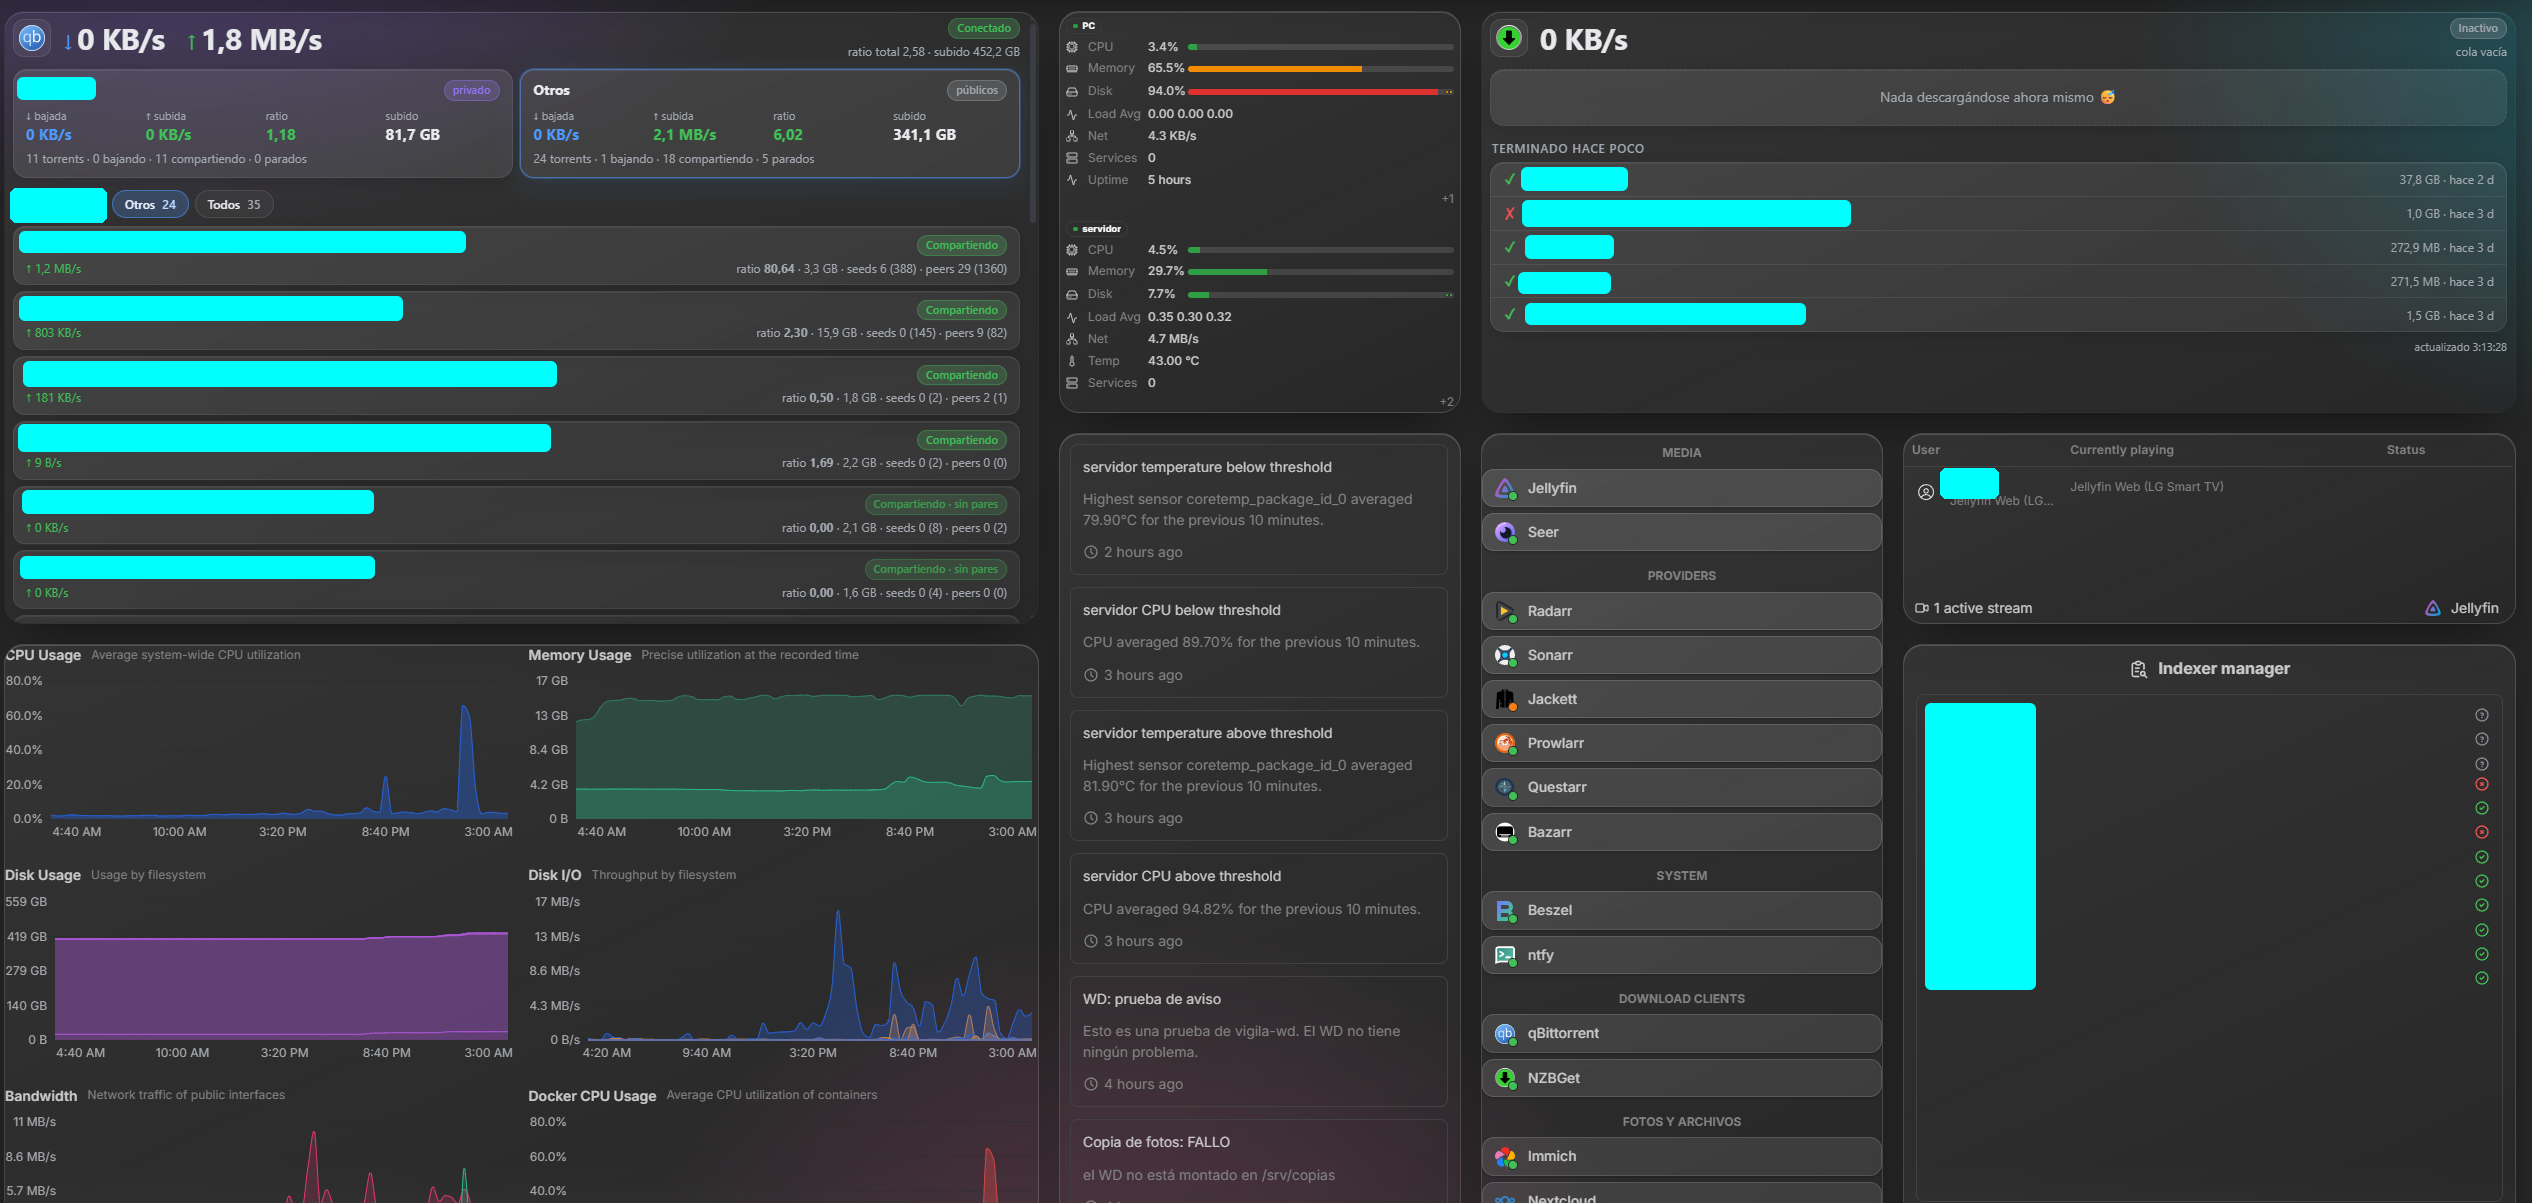
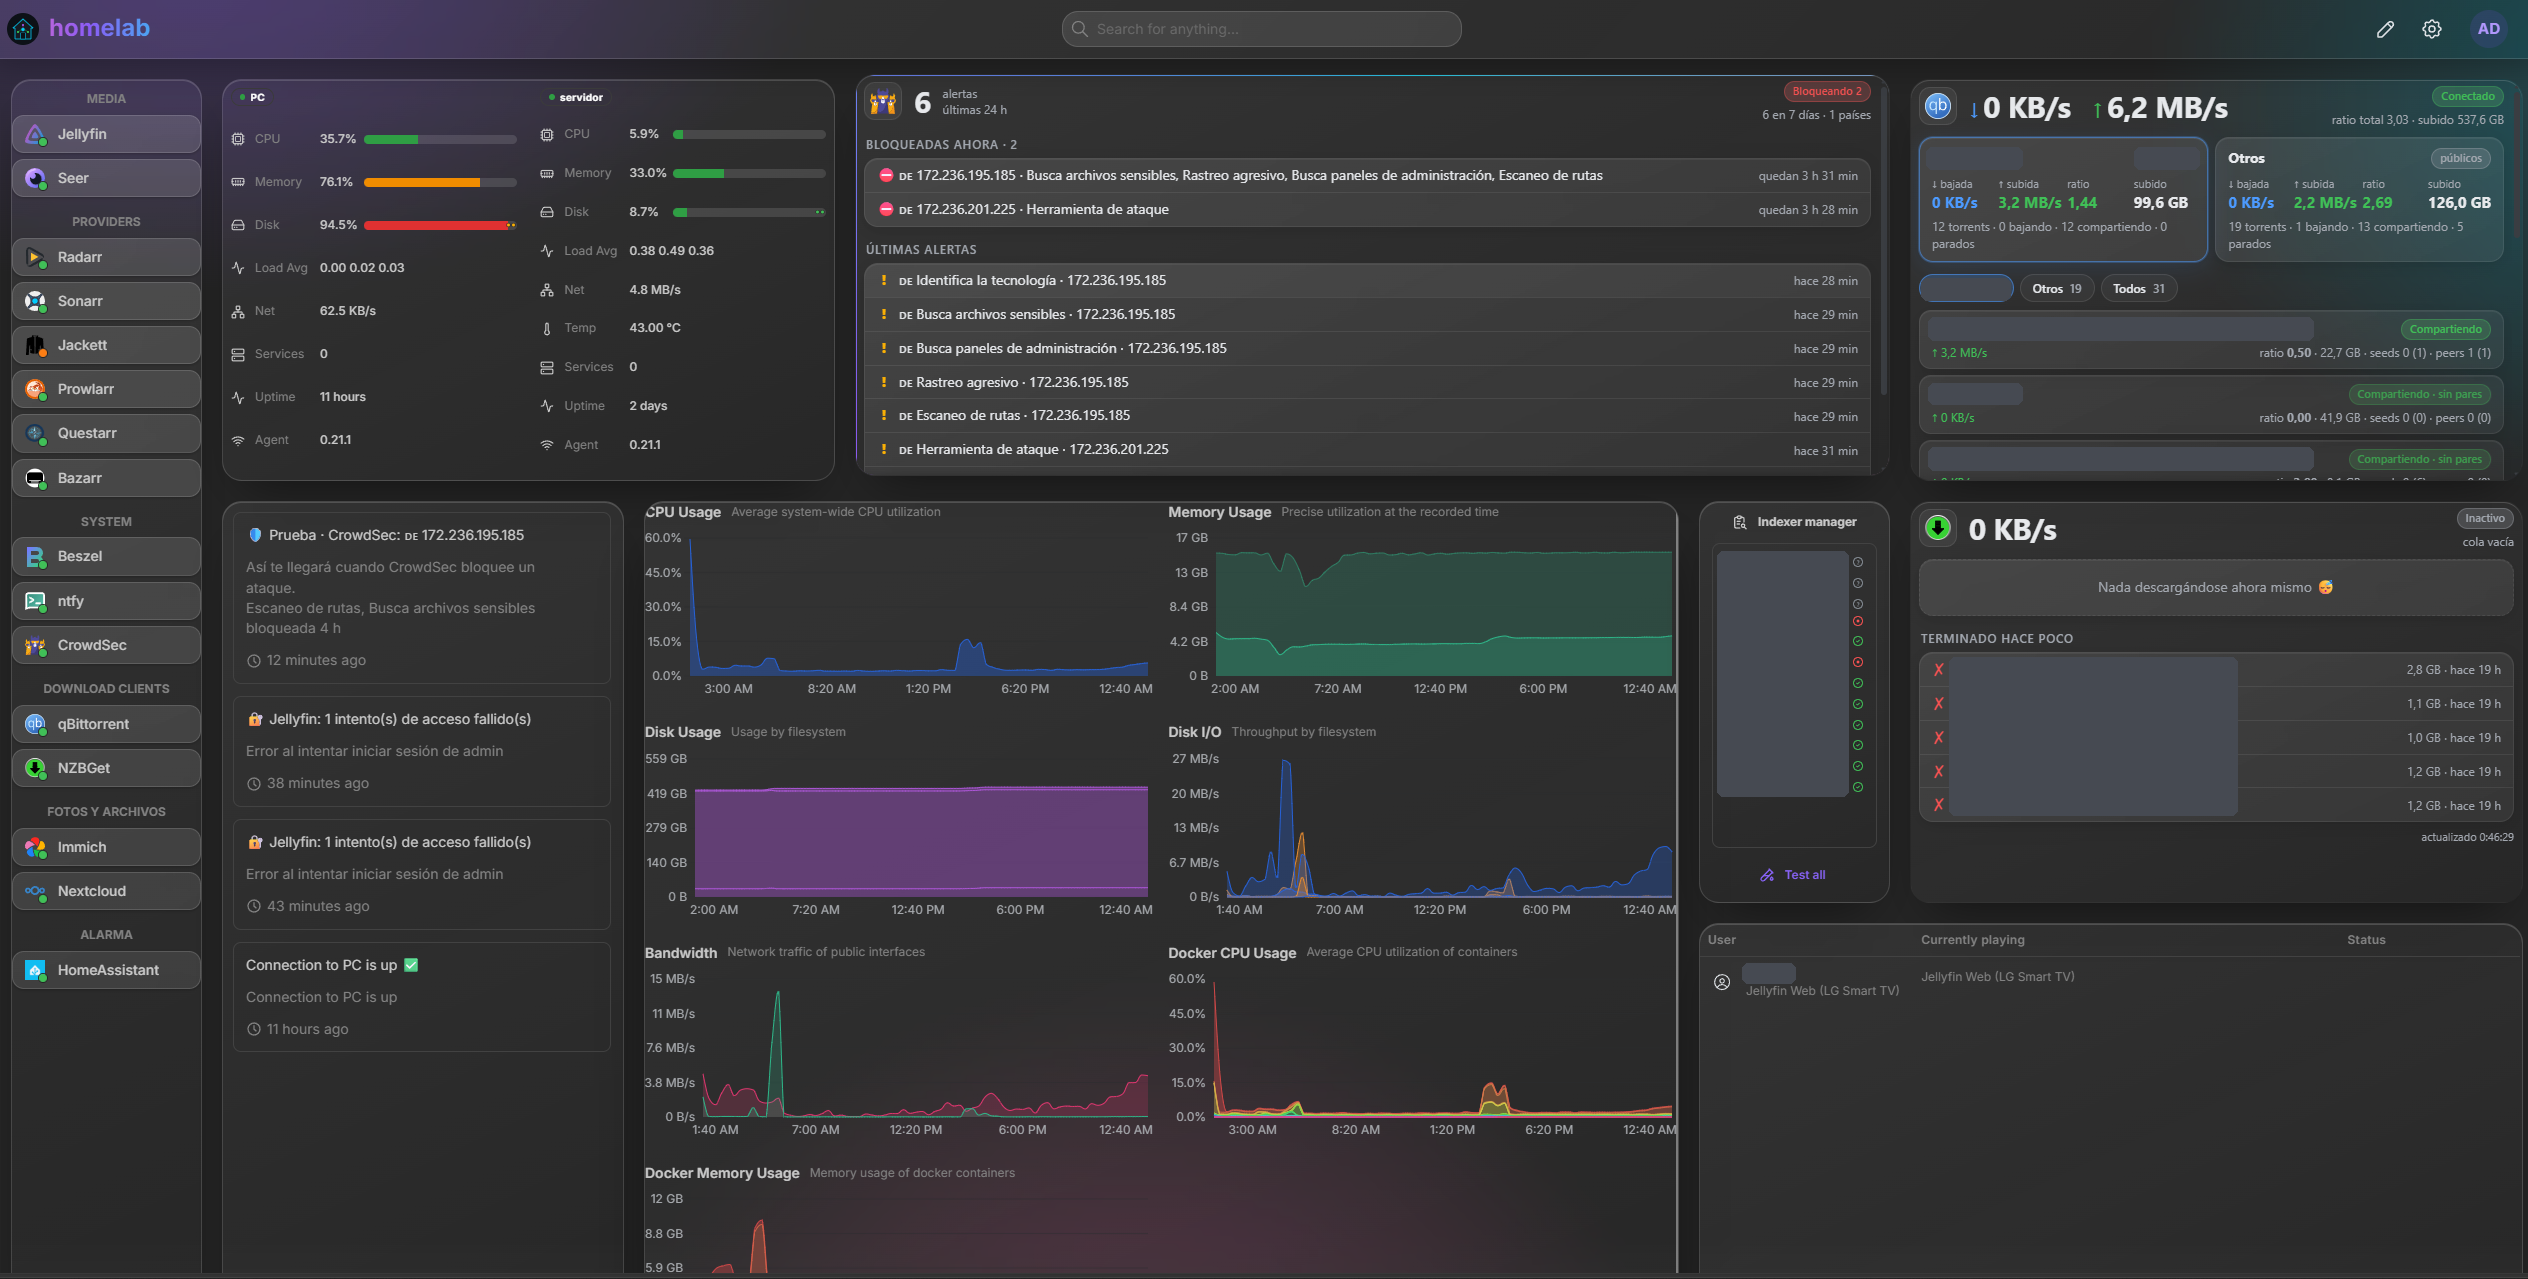
Homarr reorganizado con panel de CrowdSec y captura nueva
Claude-Session: https://claude.ai/code/session_0146gPPQ9hRwZHq2yfirPVN8

diff --git a/docs/05-panel-homarr.md b/docs/05-panel-homarr.md
@@ -4,7 +4,9 @@
 
 Desde el **26 de octubre de 2026**, **Homarr** (v2) es la página de inicio del homelab: un único tablero desde el que veo el estado de todo y salto a cualquier servicio. Sustituye a **Homepage**, que usé hasta entonces y que quedó **retirado el 31 de octubre** (ver [Cómo era antes](#cómo-era-antes-homepage)).
 
-![Tablero de Homarr en el PC](../images/homarr-escritorio.png)
+![Tablero de Homarr en el PC, 3 de noviembre](../images/homarr-escritorio.png)
+
+*El tablero el 3 de noviembre. Las alertas de seguridad que se ven las provoqué yo, lanzando escáneres web contra mi propio dominio para probar [CrowdSec](03-acceso-remoto-y-seguridad.md#consola-web-y-prueba-con-un-escáner-3-nov). Los nombres de proveedores, indexadores y descargas están tapados.*
 
 ## Por qué el cambio
 
@@ -86,7 +88,23 @@ Las **integraciones** apuntan a los servicios por su **nombre de contenedor** (`
 | Diseño base | Breakpoint **1200 px**, **14 columnas**, sin barras laterales |
 | Tema | "Aurora / glass" en *Custom CSS* (~8 KB): fondo con degradados y tarjetas translúcidas |
 
-Orden aproximado, de arriba abajo, para que lo que más miro quede arriba:
+#### Cómo está ahora (3-nov)
+
+- **Columna izquierda:** los accesos a todas las apps, por categorías (multimedia, proveedores, sistema, clientes de descarga, fotos y archivos, alarma), cada una con su punto de estado. CrowdSec entra en "sistema".
+- **Arriba**, lo que quiero ver de un vistazo: las dos máquinas (PC y servidor) con Beszel, el **panel de CrowdSec** y el panel de BitTorrent.
+- **Abajo:** las notificaciones de ntfy, las gráficas del servidor (CPU, memoria, disco, red y uso por contenedor), el estado de los indexadores, el panel de Usenet y quién está viendo algo en Jellyfin.
+
+**El panel de CrowdSec**, nuevo, enseña en castellano:
+
+- Cuántas alertas ha habido en las últimas 24 horas y en los últimos 7 días, y de cuántos países.
+- **Las IPs bloqueadas ahora mismo**, con el motivo y el tiempo de bloqueo que les queda.
+- **Las últimas alertas**, traducidas a algo legible: "Busca archivos sensibles", "Busca paneles de administración", "Rastreo agresivo", "Escaneo de rutas", "Herramienta de ataque", "Identifica la tecnología"…
+
+En la captura, todo eso lo provoqué yo: lancé **escáneres web** contra mi propio dominio y CrowdSec bloqueó las dos IPs desde las que escaneaban (2 bloqueos activos, 6 alertas). Las mismas pruebas se ven en las notificaciones de la izquierda: el aviso de prueba de CrowdSec, tal como llegará al móvil cuando bloquee un ataque de verdad, y dos **intentos fallidos de iniciar sesión como `admin` en Jellyfin**, que también saltaron con el escaneo.
+
+#### Cómo era antes (26-oct – 2-nov)
+
+Una sola columna de arriba abajo, sin barra de apps a la izquierda:
 
 1. **Paneles de descargas** en directo, a lo ancho (iFrames de los [paneles propios](#paneles-propios-dentro-de-homarr)).
 2. **Estado de las máquinas**: gráficas de CPU y RAM y tarjetas por sistema (Beszel).
@@ -103,6 +121,7 @@ Orden aproximado, de arriba abajo, para que lo que más miro quede arriba:
 | Indexer manager status | Integración Prowlarr + Jackett | Qué indexadores responden y cuáles fallan |
 | Media server streams | Integración Jellyfin | Reproducciones en curso |
 | Categorized App List with Status Dots | Widget de la comunidad | Botones de todas las apps, por categorías, con un punto de estado (verde, naranja o rojo) |
+| Panel de CrowdSec (3-nov) | CrowdSec | Alertas de 24 h y 7 días, IPs bloqueadas ahora y últimas alertas en castellano |
 
 ### Tema "cristal"
 

diff --git a/README.md b/README.md
@@ -55,6 +55,7 @@ Los porqués, la prueba previa y cómo fue la mudanza: más en [Servidor](docs/0
 - **[CrowdSec](docs/03-acceso-remoto-y-seguridad.md#crowdsec-bloqueo-automático-2-nov):** Caddy bloquea automáticamente las IPs que atacan. Lo probé lanzando un escáner contra mi propio dominio: el filtro por país lo paró en la puerta y CrowdSec lo marcó como malicioso.
 - **[El socket de Docker, en solo lectura](docs/03-acceso-remoto-y-seguridad.md#el-socket-de-docker-en-solo-lectura-2-nov):** Beszel ve los contenedores a través de un proxy, pero ya no podría tocarlos.
 - **[Una reacción en cadena en las descargas](docs/01-descarga-de-isos.md#mejoras-automáticas-una-reacción-en-cadena-2-nov),** diagnosticada y cortada, y **[125 GB compartidos protegidos con hardlinks](docs/01-descarga-de-isos.md#proteger-lo-que-se-está-compartiendo-2-nov)** sin ocupar ni un byte más.
+- **[Homarr reorganizado](docs/05-panel-homarr.md#cómo-está-ahora-3-nov)** con un panel de CrowdSec: las alertas de la captura las provoqué yo con escáneres web contra mi propio dominio.
 - **[La primera noche completa de copias](docs/12-copias-de-seguridad.md#la-primera-noche-completa-2-nov):** configuraciones, fotos, archivos y la copia cifrada, todas correctas.
 
 Del 31 de octubre y el 1 de noviembre: el [servidor asentado](docs/08-servidor-nuevo.md#después-de-la-mudanza-asentar-el-servidor-31-oct) (RAM a 16 GB y 46,4 GiB recuperados al volver a unir los hardlinks), [copias de seguridad](docs/12-copias-de-seguridad.md) dentro y fuera de casa, [fotos y archivos](docs/13-fotos-y-archivos.md) con Immich y Nextcloud, [Claude Code en el servidor](docs/08-servidor-nuevo.md#claude-code-en-el-servidor), y [la tele LG](docs/02-reproduccion-multimedia.md#la-tele-lg-que-dejó-de-cargar-1-nov) y el [panel de descargas que mentía](docs/06-avisos-y-paneles.md#el-panel-de-descargas-que-mentía-31-oct), arreglados.
@@ -243,12 +244,14 @@ Bazarr descarga los subtítulos y los **sincroniza solos** con ffsubsync, usando
 
 ![Tablero de Homarr](images/homarr-escritorio.png)
 
+*Las alertas de seguridad de la captura son de mis propias pruebas con escáneres web. Los nombres de proveedores, indexadores y descargas están tapados.*
+
 Desde el 26 de octubre, **Homarr v2** es la página de inicio del homelab, y desde el 31 el único panel: **Homepage**, que se configuraba con archivos YAML, quedó retirado tras la mudanza. Homarr se configura desde la propia web, guarda las credenciales cifradas y permite un diseño distinto para PC y para móvil.
 
 - **Integraciones por nombre de contenedor** (`http://jellyfin:8096`…): sobrevivieron a la mudanza sin tocar nada. Las pocas que usan la IP del servidor necesitaron abrir el cortafuegos a las redes de Docker.
 - **Tablero** con tema "aurora / glass" y CSS propio para que todo, incluidos widgets de la comunidad, tenga el mismo estilo de cristal translúcido.
 - **Paneles de descargas hechos a medida** (Python) y metidos como iFrame, con fondo transparente y refresco cada 3 s, porque los widgets de serie se quedaban cortos.
-- **Estado de todo de un vistazo:** máquinas (Beszel), DNS (AdGuard), notificaciones, indexadores, reproducciones en curso y botones de todas las apps con su punto de estado.
+- **Estado de todo de un vistazo:** máquinas (Beszel), **alertas y bloqueos de CrowdSec**, notificaciones, indexadores, reproducciones en curso y, en una columna a la izquierda, todas las apps con su punto de estado.
 - **Útil para mantener:** el widget de indexadores destapó duplicados y fallos que ralentizaban las búsquedas.
 
 ```mermaid

diff --git a/CHANGELOG.md b/CHANGELOG.md
@@ -8,6 +8,7 @@ Cómo ha ido evolucionando el homelab, de lo más reciente a lo más antiguo. La
 
 - **Consola web de CrowdSec** (plan gratuito): el servidor inscrito; hizo falta reiniciar CrowdSec para que empezara a sincronizar. Una alerta de prueba con una IP de documentación llegó a la consola.
 - **Tráfico normal:** las visitas desde el móvil con datos se analizaron sin saltar ninguna alerta.
+- **Homarr reorganizado:** apps en una columna a la izquierda y un **panel de CrowdSec** nuevo arriba, con las alertas de 24 h y 7 días, las IPs bloqueadas ahora y las últimas alertas en castellano. Captura del tablero actualizada; las alertas que se ven son de mis propios escáneres. Más en [Homarr](docs/05-panel-homarr.md#cómo-está-ahora-3-nov).
 - **Escáner externo** contra mi propio dominio: 51 rutas en 53 segundos, todas con 403 por el filtro por país, y aun así CrowdSec marcó la IP como maliciosa (5 alertas, 4 decisiones). Más en [Acceso remoto y seguridad](docs/03-acceso-remoto-y-seguridad.md#consola-web-y-prueba-con-un-escáner-3-nov).
 
 ## 2 de noviembre de 2026: CrowdSec, socket de Docker y una reacción en cadena

diff --git a/images/README.md b/images/README.md
@@ -10,7 +10,7 @@ Desde una página de `docs/`, la ruta lleva `../` delante, por ejemplo `../image
 
 | Archivo | Qué es | Dónde se usa |
 |---|---|---|
-| `homarr-escritorio.png` | Tablero de Homarr en el PC | README y `docs/05-panel-homarr.md` |
+| `homarr-escritorio.png` | Tablero de Homarr en el PC (3-nov, con el panel de CrowdSec) | README y `docs/05-panel-homarr.md` |
 | `homarr-torrents.png` · `homarr-nzb.png` | Los dos paneles de descargas propios | `docs/05-panel-homarr.md` |
 | `homarr-alertas.png` | Alertas de Beszel en Homarr | `docs/07-monitorizacion-beszel.md` |
 | `beszel.png` | Beszel: el servidor en la última hora | `docs/07-monitorizacion-beszel.md` |
